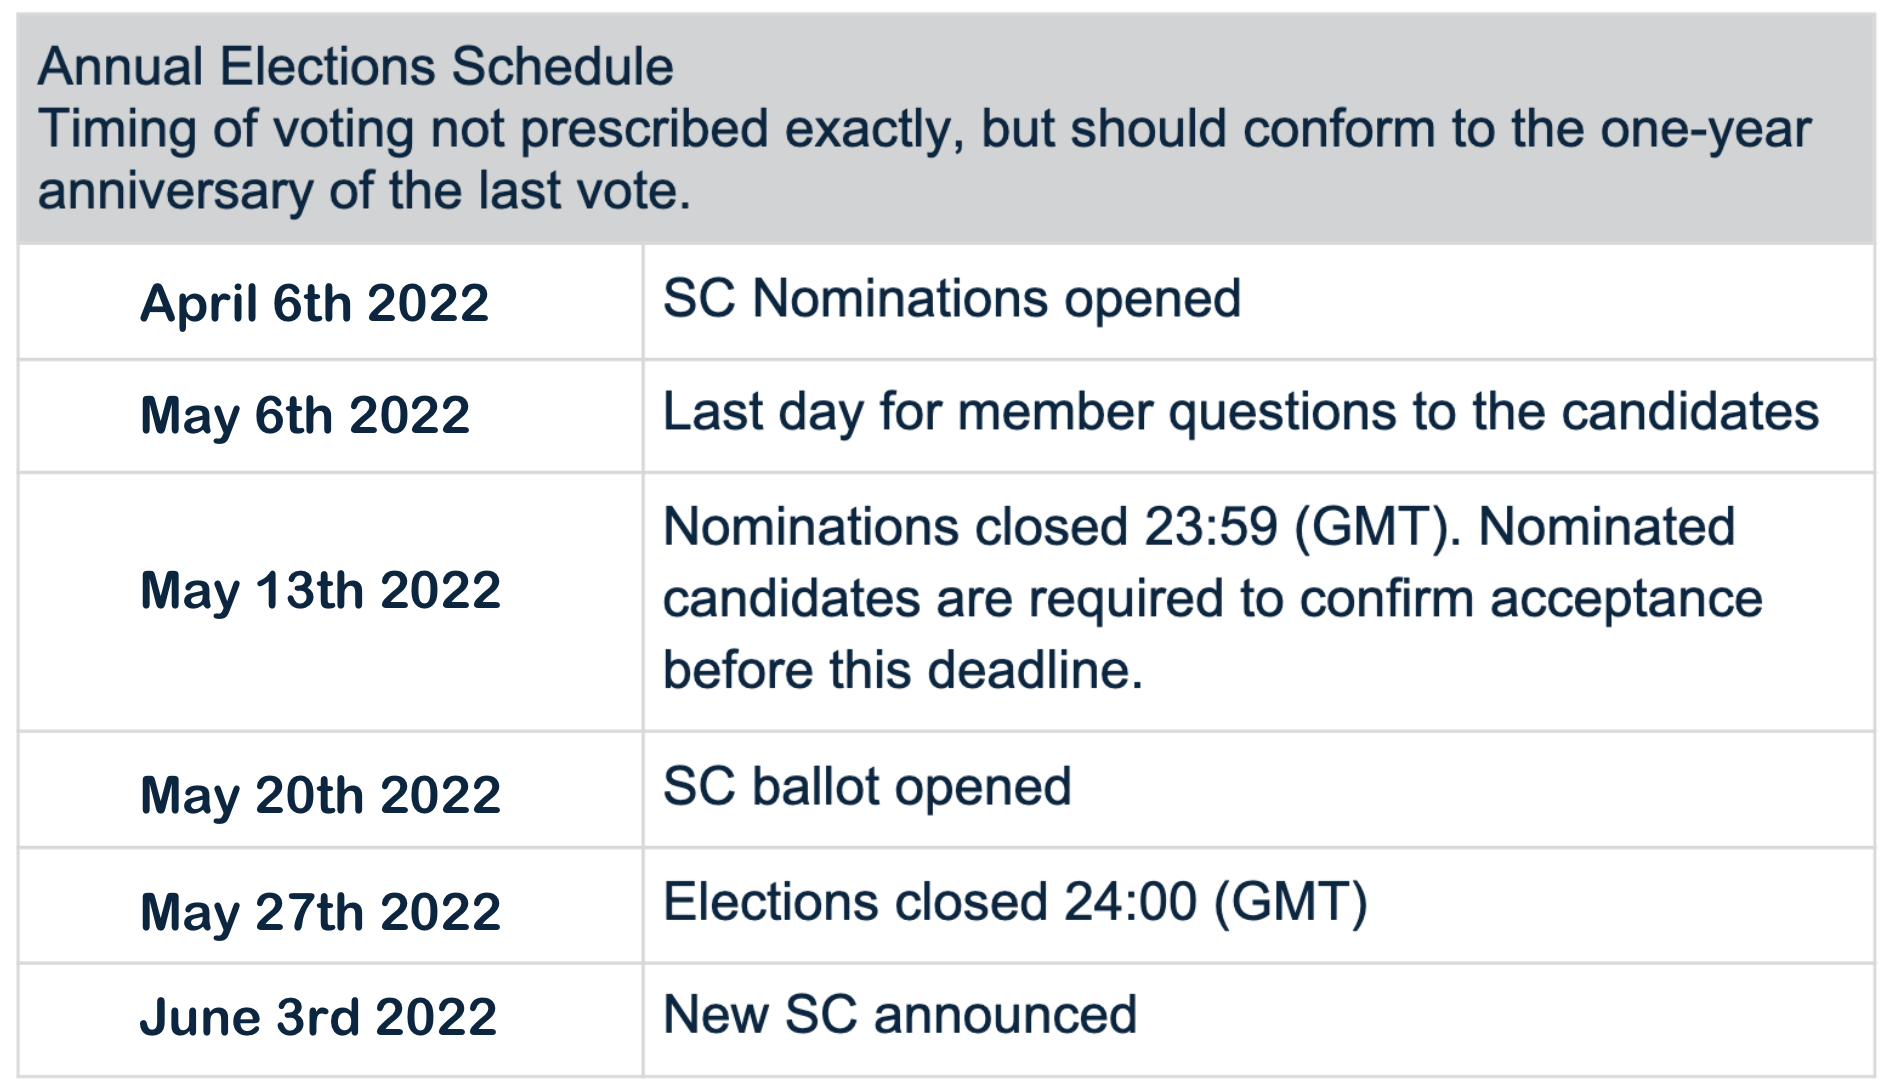
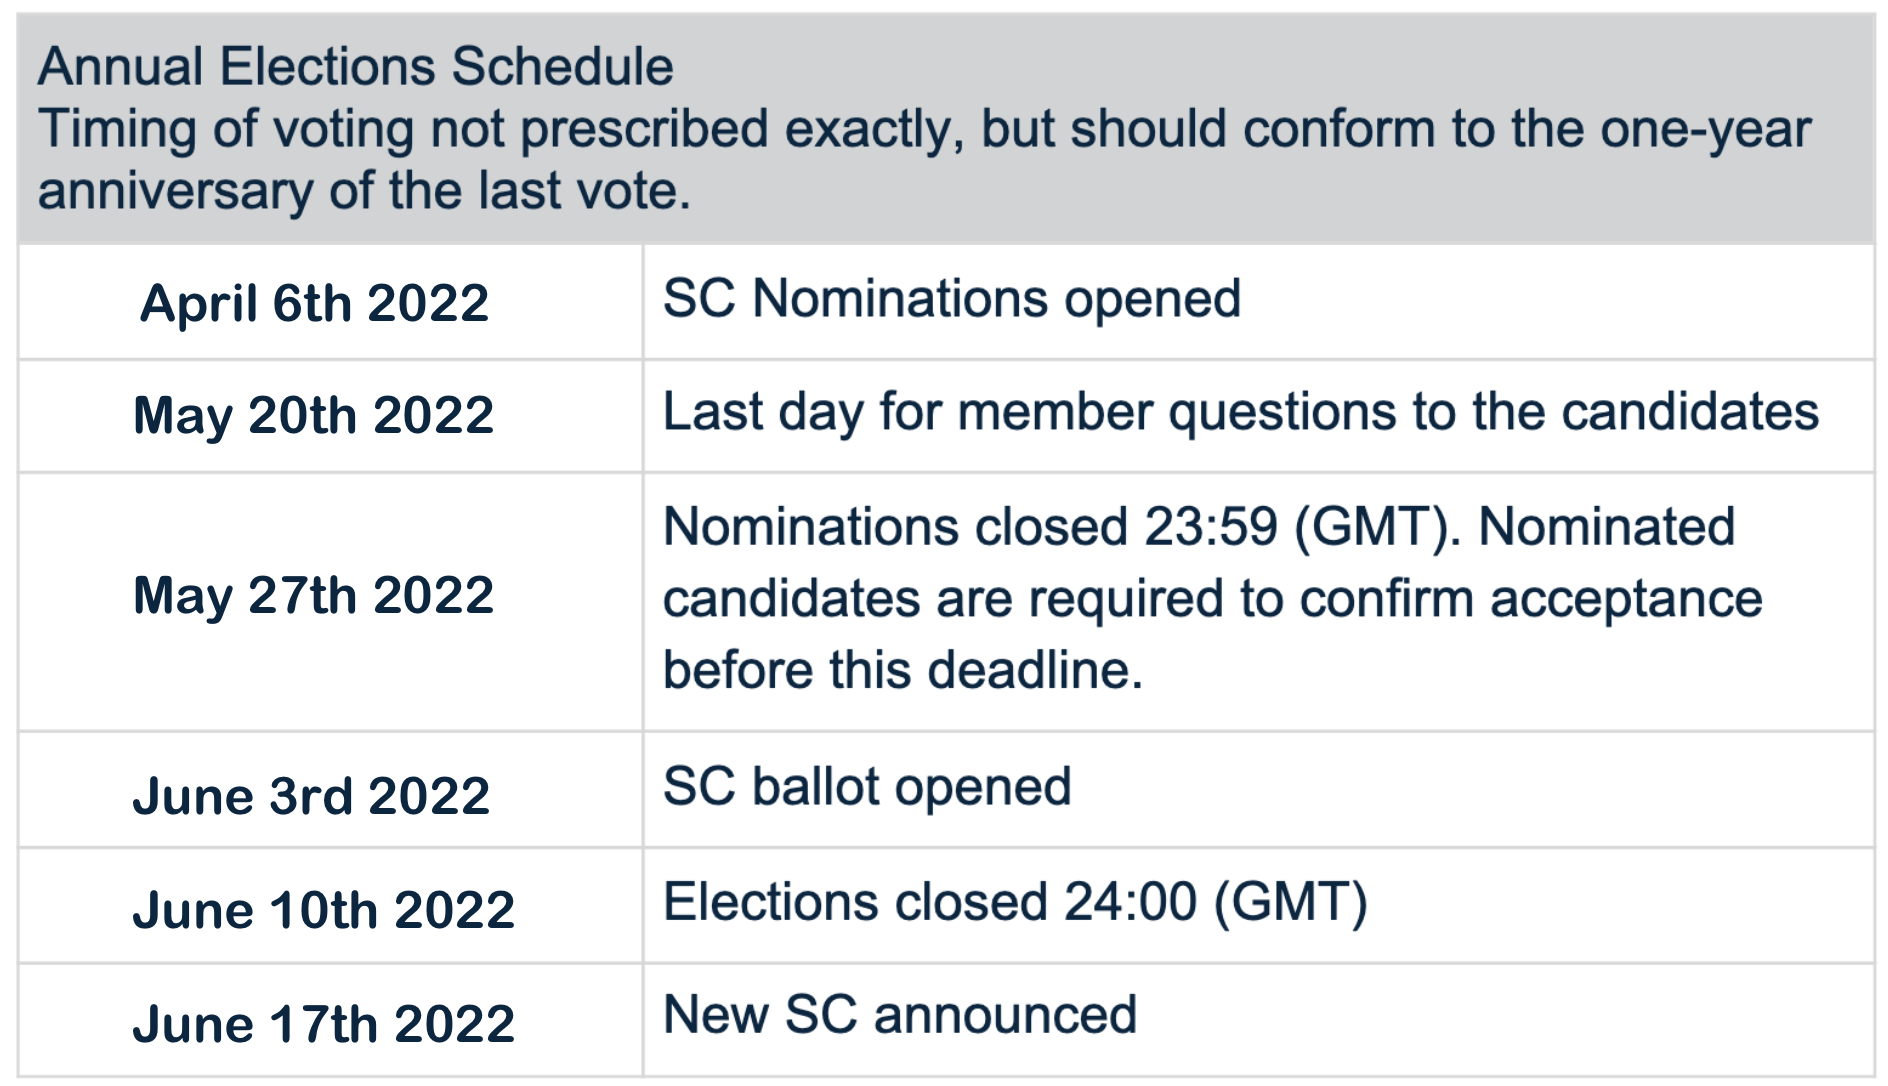
Updated Election detail

diff --git a/templates/pages/election2022/index.html b/templates/pages/election2022/index.html
@@ -19,7 +19,10 @@
     {% else %}
       <h3>Decentralized Identity Foundation</h3>
       <br>
-      <h1><i>Nominations open 6th of April 2022 !!</i></h1>
+      <h1><i>Nominations are open ! </i></h1>
+      <h1><i>Send them to nominations@identity.foundation</i></h1>
+      <br>
+      <h2></h2>
     {% endif %}
   </div>
 </section>
@@ -52,7 +55,7 @@
             <br>
             <div class="section-title text-left">
               <lu>
-                  <li><b>ALL members can nominate any other member, or themselves!</b></li>
+                  <li><b>ALL members can nominate any other member, or themselves! email your nominations to nominations@identity.foundation</b></li>
                   <li>All members are eligible for a seat on the Steering Committee (SC) - a comprehensive list of the mix of SC representatives is as follows :
                     <ul>
                       <p> </p>
@@ -64,7 +67,7 @@
                   <li>Members may only nominate one member and only submit a nomination once (you may change this choice in the nomination window)</li>
                   <li>The Nominee should have some degree of organizational or coodinational skill</li>
                   <li>The Individual should be nominated for their personal qualifications and commitment, not solely for their company or organizational affiliation</li>
-                  <li><b>Nominations open on the 6th of April 2022 - please get them in !</b></li>
+                  <li><b>Nominations are open now - please get them in !</b></li>
               </lu>
             </div>
             <br>

diff --git a/docs/election2022/index.html b/docs/election2022/index.html
@@ -177,7 +177,10 @@
     
       <h3>Decentralized Identity Foundation</h3>
       <br>
-      <h1><i>Nominations open 6th of April 2022 !!</i></h1>
+      <h1><i>Nominations are open ! </i></h1>
+      <h1><i>Send them to nominations@identity.foundation</i></h1>
+      <br>
+      <h2></h2>
     
   </div>
 </section>
@@ -210,7 +213,7 @@
             <br>
             <div class="section-title text-left">
               <lu>
-                  <li><b>ALL members can nominate any other member, or themselves!</b></li>
+                  <li><b>ALL members can nominate any other member, or themselves! email your nominations to nominations@identity.foundation</b></li>
                   <li>All members are eligible for a seat on the Steering Committee (SC) - a comprehensive list of the mix of SC representatives is as follows :
                     <ul>
                       <p> </p>
@@ -222,7 +225,7 @@
                   <li>Members may only nominate one member and only submit a nomination once (you may change this choice in the nomination window)</li>
                   <li>The Nominee should have some degree of organizational or coodinational skill</li>
                   <li>The Individual should be nominated for their personal qualifications and commitment, not solely for their company or organizational affiliation</li>
-                  <li><b>Nominations open on the 6th of April 2022 - please get them in !</b></li>
+                  <li><b>Nominations are open now - please get them in !</b></li>
               </lu>
             </div>
             <br>

diff --git a/docs/index.html b/docs/index.html
@@ -196,6 +196,11 @@
       <div class="row justify-content-center">
         <div class="col-12 col-md-10 col-lg-7">
           <div class="section-title text-center">
+            <div class="section-title text-center">
+              <br>
+              <h2>DIF Elections are on now - <i>get your nominations in !!</i> more detail <a href="/election2022/">here</a></h2>
+              <br>
+            </div>
             <h5><svg color="dark-blue"><use xlink:href="images/icons.svg#newsletter"></use></svg> <span>DIF Monthly Newsletter</span></h5>
             <form id="newsletter_form" class="validate" method="post">
               <div class="form-group">

diff --git a/templates/pages/index.html b/templates/pages/index.html
@@ -28,6 +28,11 @@
       <div class="row justify-content-center">
         <div class="col-12 col-md-10 col-lg-7">
           <div class="section-title text-center">
+            <div class="section-title text-center">
+              <br>
+              <h2>DIF Elections are on now - <i>get your nominations in !!</i> more detail <a href="/election2022/">here</a></h2>
+              <br>
+            </div>
             <h5><svg color="dark-blue"><use xlink:href="images/icons.svg#newsletter"></use></svg> <span>DIF Monthly Newsletter</span></h5>
             <form id="newsletter_form" class="validate" method="post">
               <div class="form-group">
